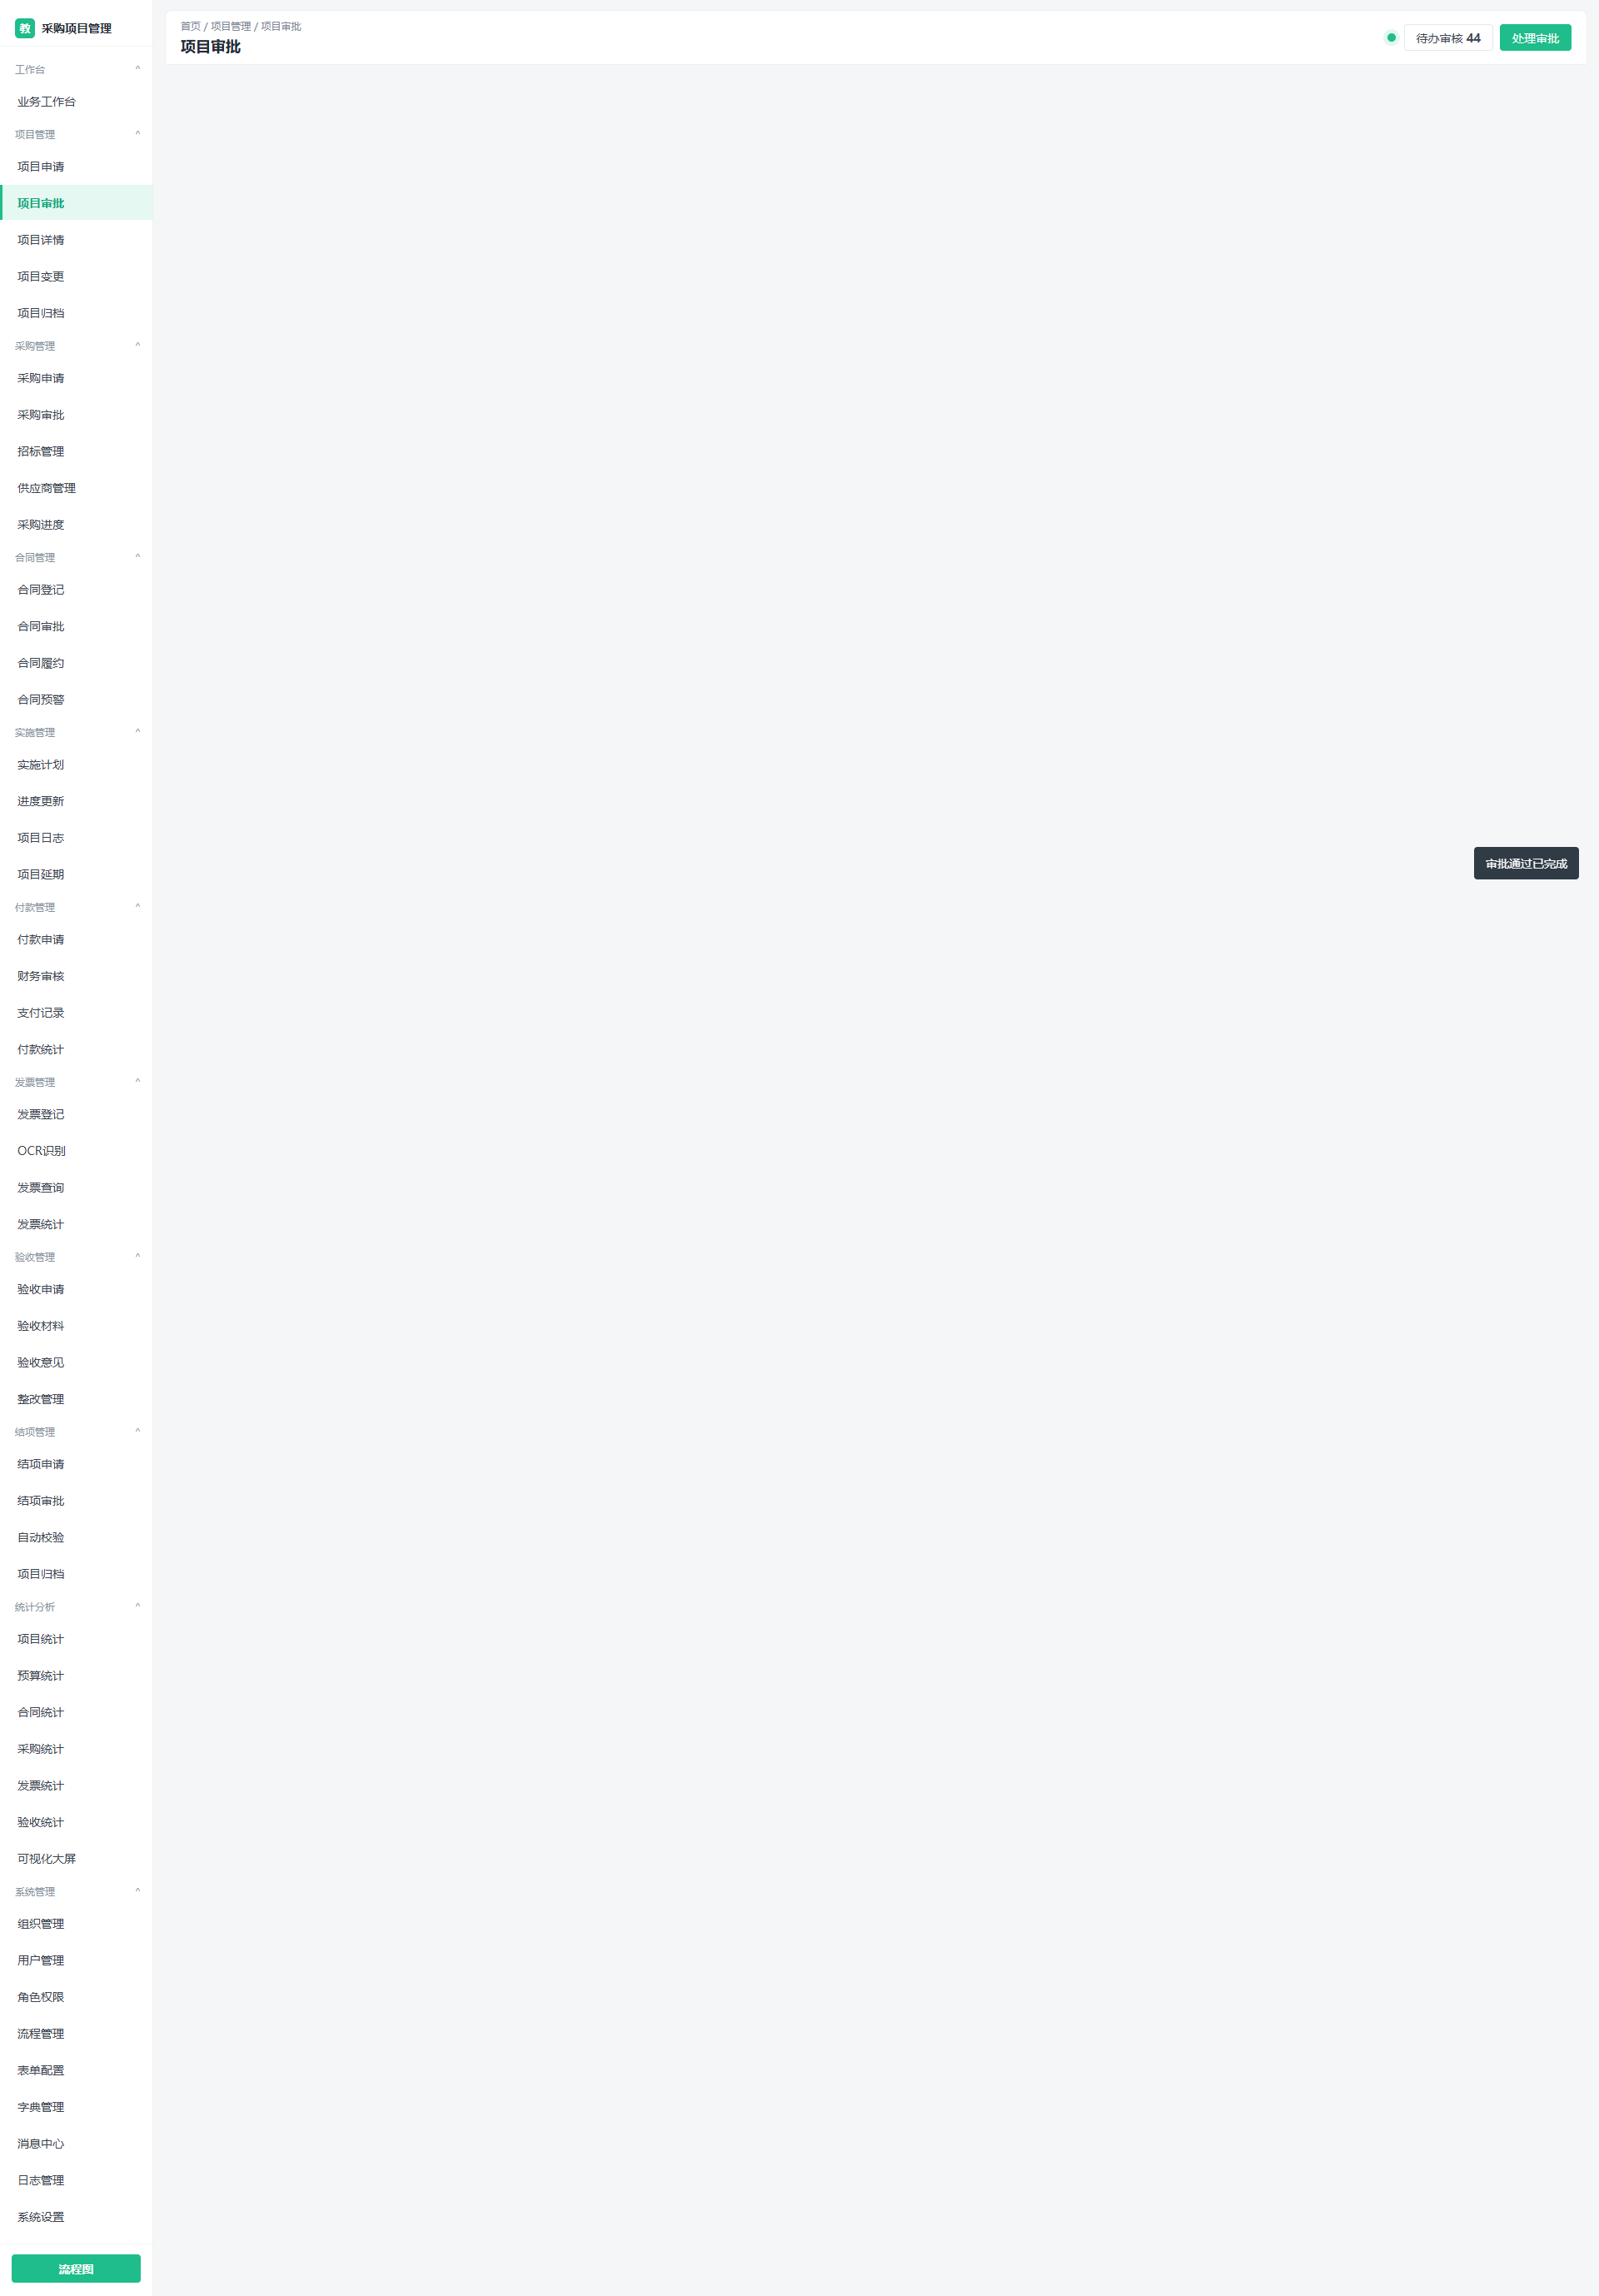
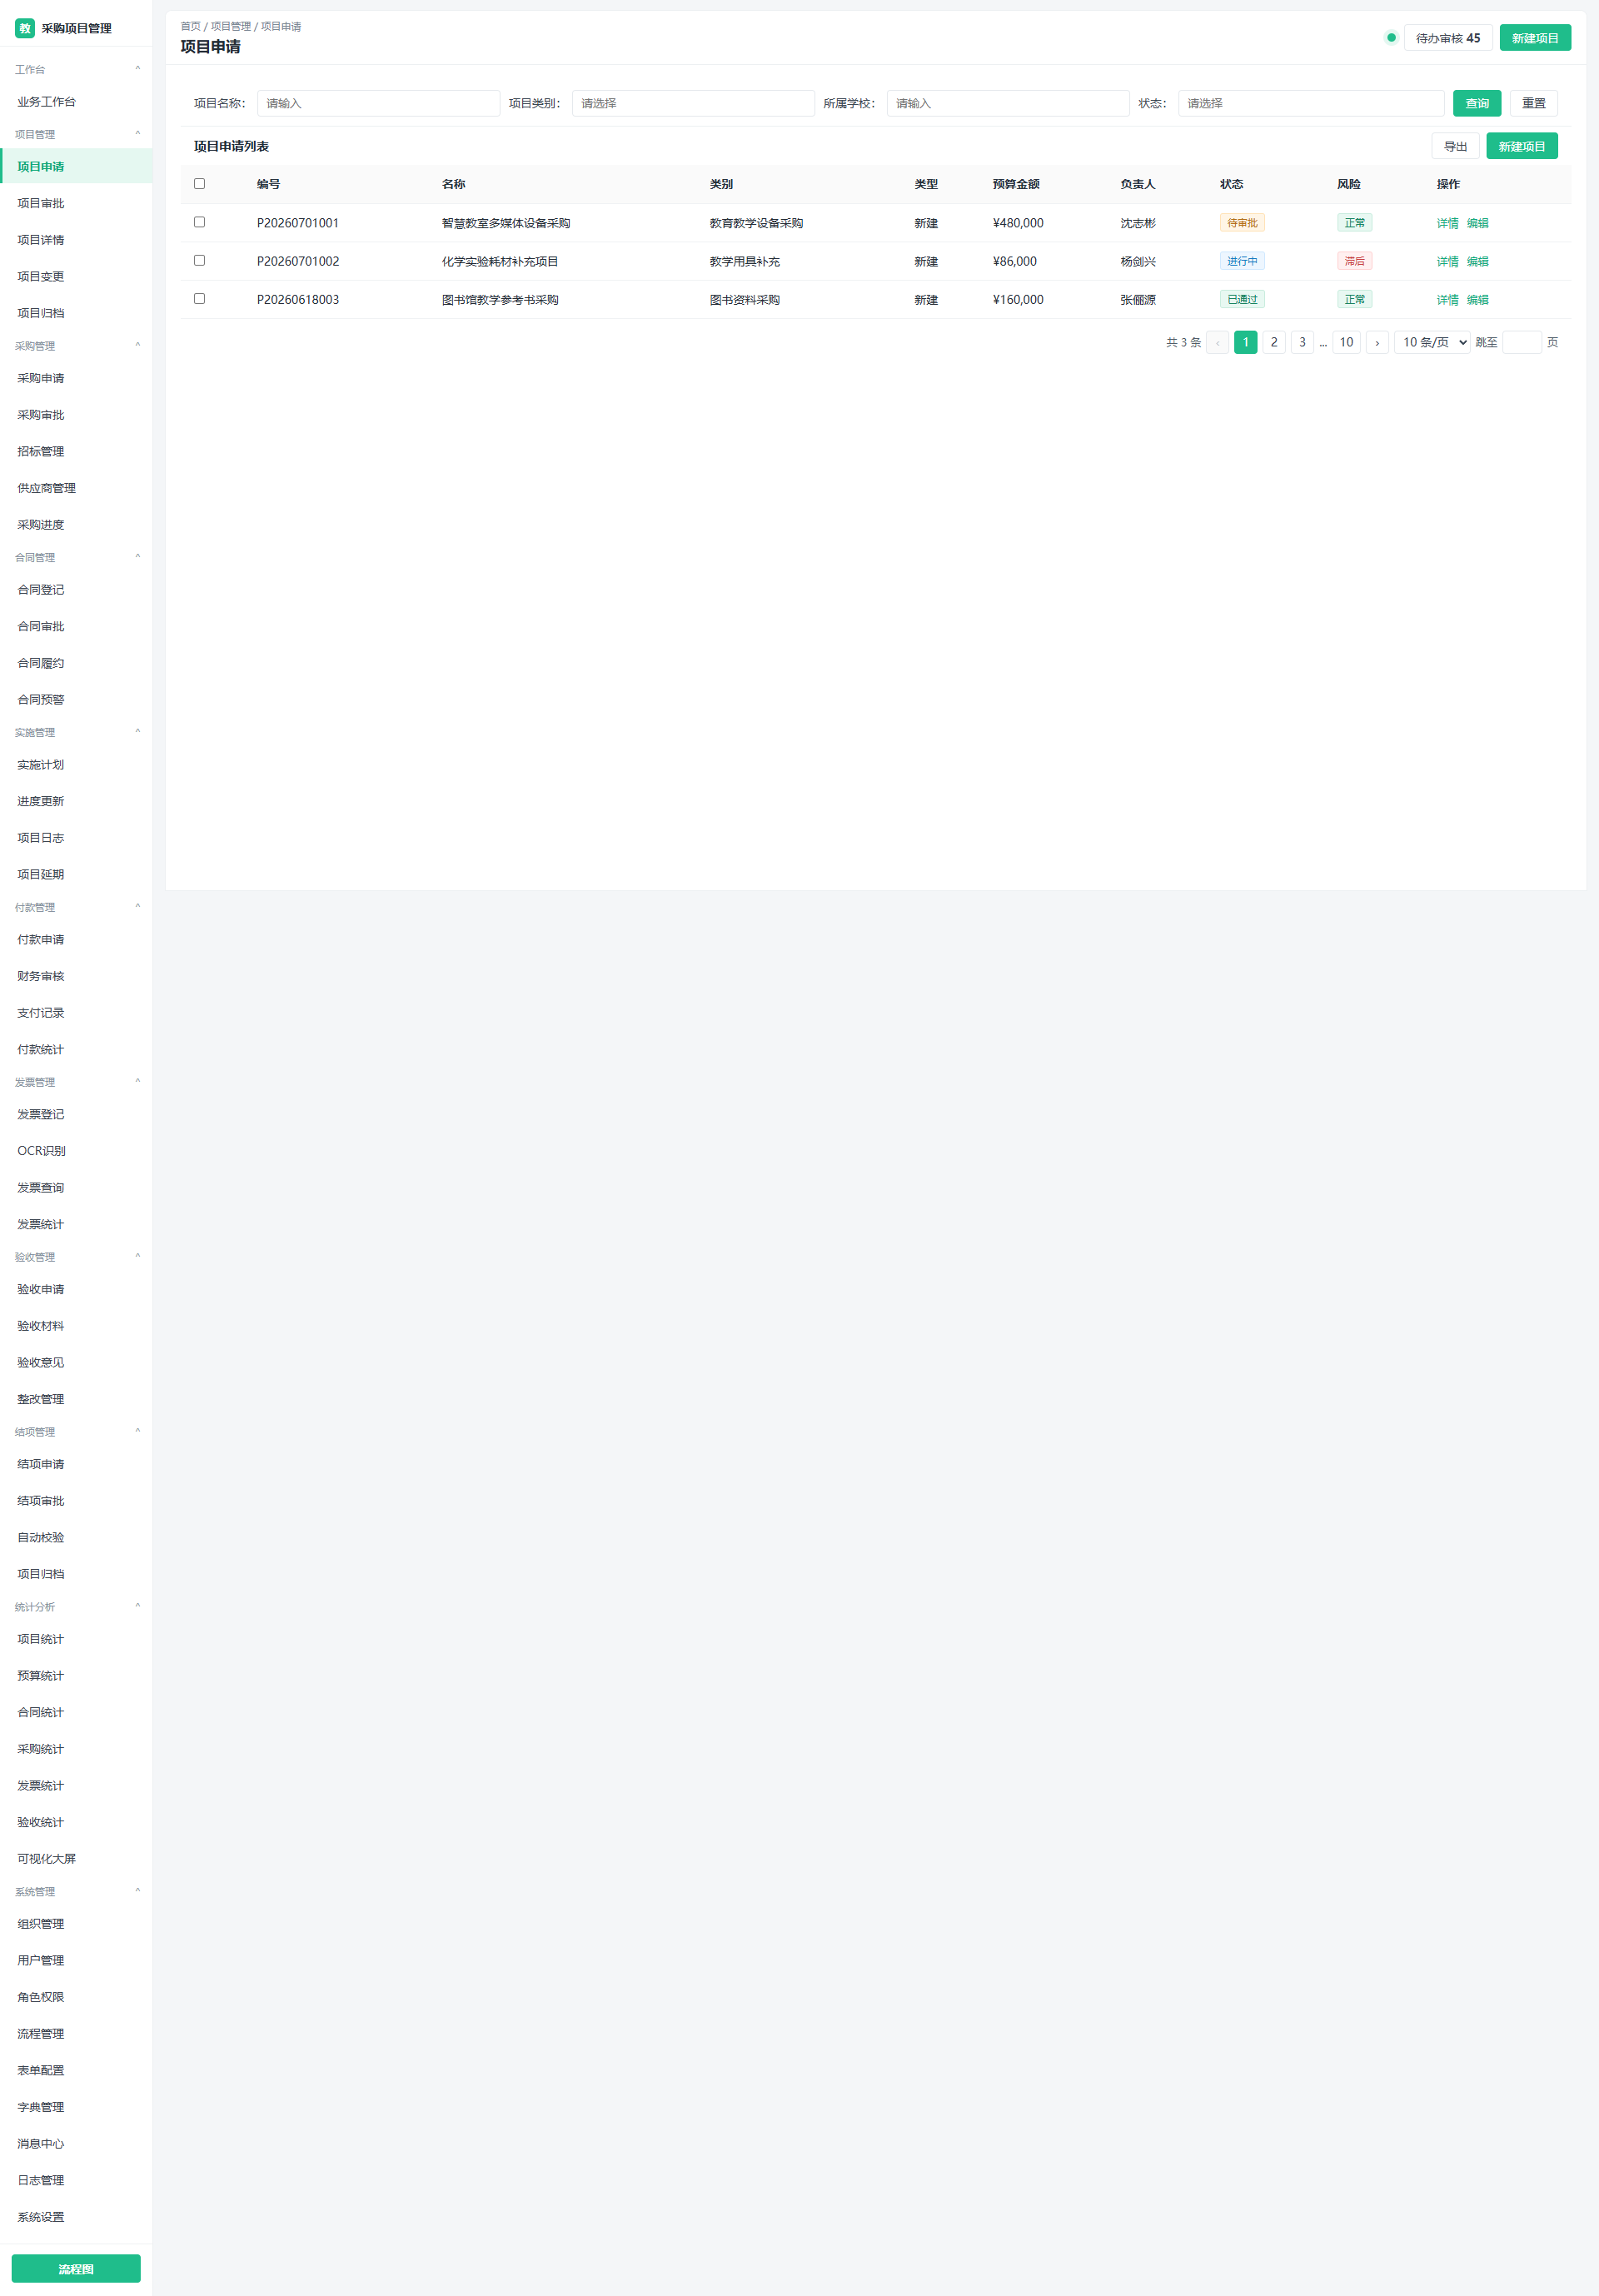
update website

diff --git a/采购项目管理原型.html b/采购项目管理原型.html
@@ -437,6 +437,71 @@ h1 {
   overflow-x: auto;
 }
 
+.pager {
+  min-height: 54px;
+  display: flex;
+  justify-content: flex-end;
+  align-items: center;
+  gap: 6px;
+  padding: 12px 16px 10px;
+  color: #3f4a56;
+  background: #fff;
+}
+
+.pager-total,
+.pager-jump,
+.pager-ellipsis {
+  font-size: 13px;
+  color: #4f5b67;
+}
+
+.pager-btn {
+  min-width: 28px;
+  height: 28px;
+  border: 1px solid var(--line-strong);
+  border-radius: 4px;
+  background: #fff;
+  color: #344150;
+  padding: 0 8px;
+}
+
+.pager-btn:hover:not(:disabled),
+.pager-size:hover,
+.pager-input:hover {
+  border-color: var(--green);
+}
+
+.pager-btn:disabled {
+  color: #c3cad1;
+  background: #fafafa;
+  cursor: not-allowed;
+}
+
+.pager-btn.active {
+  color: #fff;
+  background: var(--green);
+  border-color: var(--green);
+}
+
+.pager-size {
+  width: 92px;
+  height: 28px;
+  border: 1px solid var(--line-strong);
+  border-radius: 4px;
+  color: #344150;
+  background: #fff;
+  padding: 0 6px;
+}
+
+.pager-input {
+  width: 48px;
+  height: 28px;
+  border: 1px solid var(--line-strong);
+  border-radius: 4px;
+  padding: 0 6px;
+  text-align: center;
+}
+
 table {
   width: 100%;
   border-collapse: collapse;
@@ -2271,7 +2336,6 @@ function renderModule() {
   const page = currentPage();
   const rows = filteredRows(page);
   els.moduleView.innerHTML = `
-    ${renderPageSummary(page)}
     ${renderFilters(page.filters)}
     ${page.module === "analytics" ? renderAnalyticsHeader(page.tab) : ""}
     <div class="table-toolbar">
@@ -2289,17 +2353,6 @@ function renderModule() {
 
 function currentPage() {
   return pageConfigs[state.active] || pageConfigs.workbench;
-}
-
-function renderPageSummary(page) {
-  const total = (state.data[page.module]?.[page.tab] || []).length;
-  return `<div class="page-summary">
-    <div>
-      <strong>${page.title}</strong>
-      <span>${page.crumb}</span>
-    </div>
-    <em>共 ${total} 条业务记录</em>
-  </div>`;
 }
 
 function renderFilters(filters) {
@@ -2391,7 +2444,20 @@ function renderMiniTable(rows) {
 }
 
 function renderPager(total) {
-  return `<div class="pager"><span>共 ${total} 条</span><button disabled>‹</button><button class="active">1</button><button>2</button><button>3</button><span>...</span><button>10</button><select><option>10 条/页</option><option>20 条/页</option></select><span>跳至</span><input /><span>页</span></div>`;
+  return `<div class="pager">
+    <span class="pager-total">共 ${total} 条</span>
+    <button class="pager-btn" disabled>‹</button>
+    <button class="pager-btn active">1</button>
+    <button class="pager-btn">2</button>
+    <button class="pager-btn">3</button>
+    <span class="pager-ellipsis">...</span>
+    <button class="pager-btn">10</button>
+    <button class="pager-btn">›</button>
+    <select class="pager-size"><option>10 条/页</option><option>20 条/页</option><option>50 条/页</option></select>
+    <span class="pager-jump">跳至</span>
+    <input class="pager-input" />
+    <span class="pager-jump">页</span>
+  </div>`;
 }
 
 function bindModuleEvents() {

diff --git a/styles.css b/styles.css
@@ -430,6 +430,71 @@ h1 {
   overflow-x: auto;
 }
 
+.pager {
+  min-height: 54px;
+  display: flex;
+  justify-content: flex-end;
+  align-items: center;
+  gap: 6px;
+  padding: 12px 16px 10px;
+  color: #3f4a56;
+  background: #fff;
+}
+
+.pager-total,
+.pager-jump,
+.pager-ellipsis {
+  font-size: 13px;
+  color: #4f5b67;
+}
+
+.pager-btn {
+  min-width: 28px;
+  height: 28px;
+  border: 1px solid var(--line-strong);
+  border-radius: 4px;
+  background: #fff;
+  color: #344150;
+  padding: 0 8px;
+}
+
+.pager-btn:hover:not(:disabled),
+.pager-size:hover,
+.pager-input:hover {
+  border-color: var(--green);
+}
+
+.pager-btn:disabled {
+  color: #c3cad1;
+  background: #fafafa;
+  cursor: not-allowed;
+}
+
+.pager-btn.active {
+  color: #fff;
+  background: var(--green);
+  border-color: var(--green);
+}
+
+.pager-size {
+  width: 92px;
+  height: 28px;
+  border: 1px solid var(--line-strong);
+  border-radius: 4px;
+  color: #344150;
+  background: #fff;
+  padding: 0 6px;
+}
+
+.pager-input {
+  width: 48px;
+  height: 28px;
+  border: 1px solid var(--line-strong);
+  border-radius: 4px;
+  padding: 0 6px;
+  text-align: center;
+}
+
 table {
   width: 100%;
   border-collapse: collapse;

diff --git a/app.js b/app.js
@@ -879,7 +879,6 @@ function renderModule() {
   const page = currentPage();
   const rows = filteredRows(page);
   els.moduleView.innerHTML = `
-    ${renderPageSummary(page)}
     ${renderFilters(page.filters)}
     ${page.module === "analytics" ? renderAnalyticsHeader(page.tab) : ""}
     <div class="table-toolbar">
@@ -897,17 +896,6 @@ function renderModule() {
 
 function currentPage() {
   return pageConfigs[state.active] || pageConfigs.workbench;
-}
-
-function renderPageSummary(page) {
-  const total = (state.data[page.module]?.[page.tab] || []).length;
-  return `<div class="page-summary">
-    <div>
-      <strong>${page.title}</strong>
-      <span>${page.crumb}</span>
-    </div>
-    <em>共 ${total} 条业务记录</em>
-  </div>`;
 }
 
 function renderFilters(filters) {
@@ -999,7 +987,20 @@ function renderMiniTable(rows) {
 }
 
 function renderPager(total) {
-  return `<div class="pager"><span>共 ${total} 条</span><button disabled>‹</button><button class="active">1</button><button>2</button><button>3</button><span>...</span><button>10</button><select><option>10 条/页</option><option>20 条/页</option></select><span>跳至</span><input /><span>页</span></div>`;
+  return `<div class="pager">
+    <span class="pager-total">共 ${total} 条</span>
+    <button class="pager-btn" disabled>‹</button>
+    <button class="pager-btn active">1</button>
+    <button class="pager-btn">2</button>
+    <button class="pager-btn">3</button>
+    <span class="pager-ellipsis">...</span>
+    <button class="pager-btn">10</button>
+    <button class="pager-btn">›</button>
+    <select class="pager-size"><option>10 条/页</option><option>20 条/页</option><option>50 条/页</option></select>
+    <span class="pager-jump">跳至</span>
+    <input class="pager-input" />
+    <span class="pager-jump">页</span>
+  </div>`;
 }
 
 function bindModuleEvents() {

diff --git a/design-qa.md b/design-qa.md
@@ -19,6 +19,8 @@ final result: passed
   - 用户管理、角色权限、流程管理、表单配置、系统设置
 - 新增弹窗必填星号正常显示。
 - 新增弹窗未出现字段后的“必填”文字。
+- 列表页左上角页面摘要块已移除。
+- 列表分页位于表格下方右侧，分页按钮、每页条数和跳页输入样式已优化。
 - PRD 弹窗包含 PRD-V1 结构。
 - 流程图弹窗包含 6 组业务/操作流程。
 - 审批通过操作会先弹出二次确认，确认后状态更新为“已通过”。